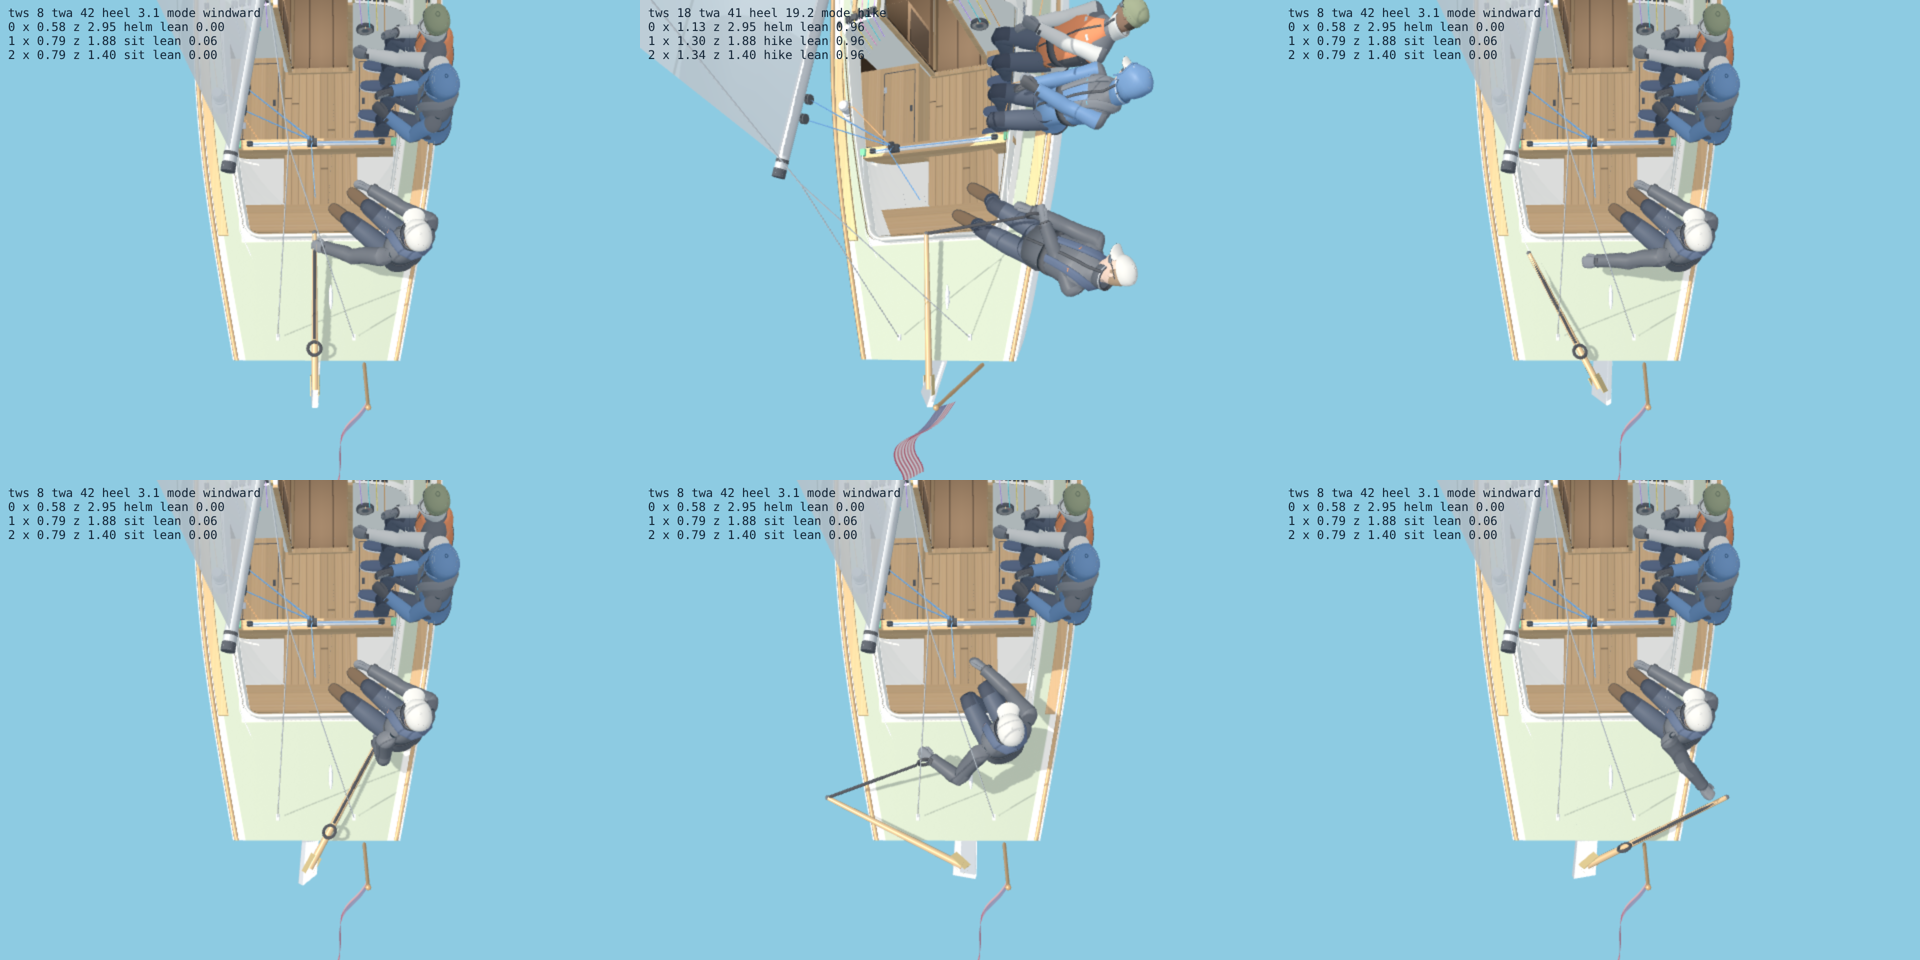
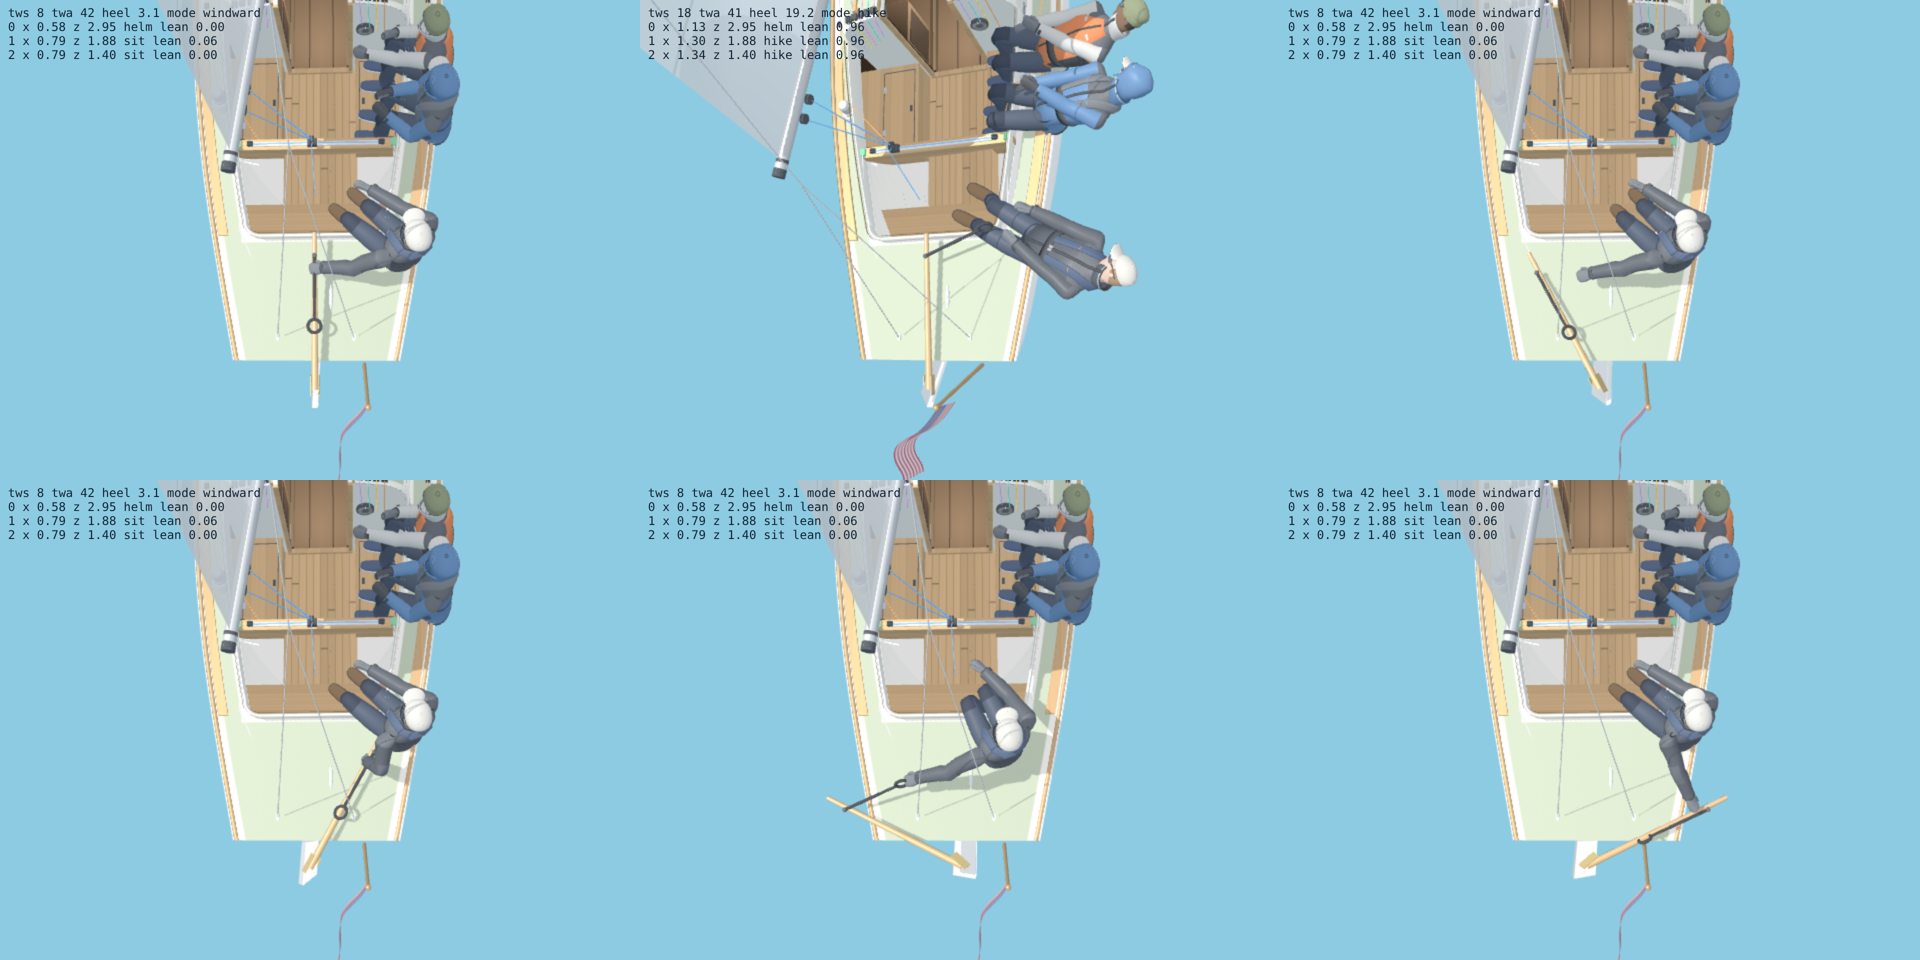
helm-travel: the extension's joint on the tiller's top 18 cm short of its end, and the extension 0.6 m (the owner)
- crew.ts: the universal joint is on the tiller's top, 18 cm (the owner: 6–8 in) short of its end; the helm's hold on the
  tiller is there. The extension is 0.6 m, about half the tiller (the owner: the long one was "visually intrusive and not
  true to life"). Both ESTIMATES. Stowed, it lies along the tiller's top from the joint.
- The deploy and stow thresholds are unchanged, re-checked with the shorter reach. The hand is on its grip or the tiller
  (0 mm off) sat, hiking (still out on the rail), at ±40° and at ±75°.
- docs/helm-travel-figures/straight: re-shot.

Claude-Session: https://claude.ai/code/session_012Uu5QiXrMLFqZYcrUp8g2b

diff --git a/src/render/crew.ts b/src/render/crew.ts
@@ -4,7 +4,7 @@ import { mergeGeometries } from 'three/examples/jsm/utils/BufferGeometryUtils.js
 import type { CrewState, Person, Pose as Job } from '../boat/crewPhys';
 import { DECK_ARM, slotOf } from '../boat/crewPhys';
 import { BONE, buildBody, type Body } from './crewBody';
-import { CABIN, COAMING_H, COAMING_T, COCKPIT, COCKPIT_FIT, COMPANIONWAY, canoe, FOOTREST, footrestEdge, JIB_WINCH_Z, L, cabinHalf, cabinTopAt, cockpitHalf, deckY, halfBeam, hullInnerHalf, thwartTop, uAtZ, benchOut, TILLER, tillerRestDir } from './hull';
+import { CABIN, COAMING_H, COAMING_T, COCKPIT, COCKPIT_FIT, COMPANIONWAY, canoe, FOOTREST, footrestEdge, JIB_WINCH_Z, L, cabinHalf, cabinTopAt, cockpitHalf, deckY, halfBeam, hullInnerHalf, thwartTop, uAtZ, benchOut, TILLER, tillerRestDir, RUDDER_RAKE } from './hull';
 
 /**
  * The people aboard, drawn as people: a jointed figure for each (pelvis, torso, head, arms with elbows and hands,
@@ -45,7 +45,7 @@ const figure = (p: Person, jacket: number, seed: number): Figure => ({ ...buildB
  * its joint (the origin) along +y, EXT_LEN to the grip's far side.
  */
 function extensionGeometry(): THREE.BufferGeometry {
-  const outer = new THREE.CylinderGeometry(0.013, 0.013, 0.5, 8).translate(0, 0.27, 0), inner = new THREE.CylinderGeometry(0.011, 0.011, 0.32, 8).translate(0, 0.66, 0);
+  const outer = new THREE.CylinderGeometry(0.013, 0.013, 0.32, 8).translate(0, 0.17, 0), inner = new THREE.CylinderGeometry(0.011, 0.011, 0.2, 8).translate(0, 0.4, 0);
   // the D: a loop of a 0.05 m radius, in the plane of the stick, its near side across the tube's end
   const loop = new THREE.TorusGeometry(0.05, 0.012, 6, 18).translate(0, EXT_LEN - 0.06, 0);
   const g = mergeGeometries([outer, inner, loop].map(q => q.toNonIndexed()));
@@ -106,9 +106,9 @@ let poseClock = 0;
  * the Bay's westerly sea about 0.006 rad/s at 6 kt, 0.025 at 14, 0.066 at 22 (measured, an AI boat racing on the default
  * course). Going forward in it, a crew goes lower and slower, both hands down. */
 let rough = 0;
-/** The tiller extension's length (m): ESTIMATE, a typical one for a boat her size (the owner: "most Folkboat skippers use
- * a tiller extension"). And the tiller's root this frame (syncCrew), for folding it back along the tiller. */
-const EXT_LEN = 0.95;
+/** The tiller extension's length (m): about half the tiller's (the owner: a long one is "visually intrusive and not true
+ * to life"), ESTIMATE. And the tiller's root this frame (syncCrew), for folding it back along the tiller. */
+const EXT_LEN = 0.6;
 let tRoot: THREE.Vector3 | undefined;
 /** Back along the top of the tiller from its end, toward the rudder head: the stowed extension's way. */
 const extAlong = (tip: THREE.Vector3) => tRoot ? tRoot.clone().sub(tip).normalize().add(V(0, 0.05, 0)).normalize() : V(0, 0.1, 1).normalize();
@@ -807,7 +807,7 @@ function helmPose(fig: Figure, x: number, z: number, lean: number, windward: num
   // arm from where they sit. They slide aft and in along the after deck toward it, as a helm does, as far as they need
   // and up to 0.35 m; their feet come aft with them)
   let fz = COCK1 - 0.24;
-  { const far = Math.hypot(tip.x - hip.x, tip.z - hip.z) - (0.95 + 0.5 * k);
+  { const far = Math.hypot(tip.x - hip.x, tip.z - hip.z) - (EXT_LEN + 0.5 * k);
     if (far > 0) {
       const dx = tip.x - hip.x, dz = tip.z - hip.z, n = Math.hypot(dx, dz) || 1, go = Math.min(0.35, far);
       const nz = Math.min(L / 2 - 0.5, hip.z + go * dz / n), nx = s * Math.max(0.25, s * (hip.x + go * dx / n)), nu = uAtZ(nz);
@@ -819,7 +819,7 @@ function helmPose(fig: Figure, x: number, z: number, lean: number, windward: num
     // (sitting out on the side deck, the knees over the coaming: the feet hang from them, on the footrest or just off it)
     if (hx > chz(fz) - 0.05) q.y = Math.max(q.y, deckY(uAtZ(fz), chz(fz)) + coamH(fz) + 0.04 - BONE.shin * k);
     return q; }
-  // the extension (EXT_LEN, on its universal joint at the tiller's end: the owner). Stowed (extOut 0), lying back along
+  // the extension (EXT_LEN, on its universal joint on the tiller's top, EXT_AFT short of its end: the owner). Stowed (extOut 0), lying back along
   // the top of the tiller, the hand on the tiller just short of its end (the owner's photo of hers); swung out, its grip in
   // the hand: out toward where a hand rests in front of them, or as far toward the tiller's end as they reach when it's
   // across the far quarter. Between, the hand carries the grip round on the joint
@@ -1172,6 +1172,9 @@ function toward(p: THREE.Vector3, q: THREE.Vector3, a: number, max: number): voi
 /** Where the tiller's end is in the boat's frame, from the rudder (boatMesh.ts: the group turned to steer). */
 // (the tiller's end and its pin, in the tiller's own frame: it's turned with the rudder and lifted on its pin, boatMesh.ts)
 const TILLER_TIP = tillerRestDir().multiplyScalar(TILLER.len), TILLER_PIN = V(0, 0, 0);
+/** The extension's universal joint: on the tiller's top, 18 cm short of its end (the owner: 6–8 in), ESTIMATE. */
+const EXT_AFT = 0.18, TILLER_JOINT = (() => { const d = tillerRestDir(), r = RUDDER_RAKE, up = V(0, Math.cos(r), -Math.sin(r)); // (the boat's up, in the rudder's frame)
+  up.addScaledVector(d, -up.dot(d)).normalize(); return d.clone().multiplyScalar(TILLER.len - EXT_AFT).addScaledVector(up, 0.03); })();
 const onTiller = (turn: THREE.Object3D, local: THREE.Vector3) => {
   const rud = turn.parent!, til = turn.children[1]; til.updateMatrix(); turn.updateMatrix(); rud.updateMatrix();
   return local.clone().applyMatrix4(til.matrix).applyMatrix4(turn.matrix).applyMatrix4(rud.matrix);
@@ -1180,6 +1183,8 @@ const onTiller = (turn: THREE.Object3D, local: THREE.Vector3) => {
 export const tillerRootAt = (turn: THREE.Object3D) => onTiller(turn, TILLER_PIN);
 /** Where the tiller's end is in the boat's frame, from the rudder (boatMesh.ts: the group turned to steer). */
 export const tillerTip = (turn: THREE.Object3D) => onTiller(turn, TILLER_TIP);
+/** Where the extension's joint is in the boat's frame: the helm's hold on the tiller, whichever way they steer. */
+export const tillerJointAt = (turn: THREE.Object3D) => onTiller(turn, TILLER_JOINT);
 
 /**
  * (Moving, and which way: from where the physics has them now against last frame, over the time the race moved

diff --git a/src/render/boatMesh.ts b/src/render/boatMesh.ts
@@ -11,7 +11,7 @@ import { sailPlan } from '../boat/physics';
 import { guideTune, rigDrawn } from '../boat/rigTune';
 import { lineColor, type BoatSpec, type LineColorKey } from '../boat/spec';
 import { P3 } from './coords';
-import { buildCrew, dockhand, syncCrew, tillerRootAt, tillerTip, type Crew } from './crew';
+import { buildCrew, dockhand, syncCrew, tillerJointAt, tillerRootAt, type Crew } from './crew';
 import { burgeeCanvas, officerRule } from './burgees';
 import { flagArtCanvas, needsCourtesy } from './flagArt';
 import { DEFAULT_CREW } from '../boat/crewPhys';
@@ -1558,7 +1558,7 @@ export function syncBoatMesh(m: BoatMesh, b: Boat, t: number, wave?: { heave: nu
   if (live) m.liveT = t;
   const pd = b.paddle, who = pd ? paddler(b) : 0;
   if (live) m.crew.tillerRoot = tillerRootAt(m.rudder);
-  if (live) syncCrew(m.crew, b.rel >= 0 ? 1 : -1, b.crew, ldt, m.hideHelm, tillerTip(m.rudder), b.heel, b.tacking, pitch, pd ? { side: pd.side, back: !!pd.back, fetch: PADDLE.fetchS / workPace(b, who), who, key: pd.t0 } : null);
+  if (live) syncCrew(m.crew, b.rel >= 0 ? 1 : -1, b.crew, ldt, m.hideHelm, tillerJointAt(m.rudder), b.heel, b.tacking, pitch, pd ? { side: pd.side, back: !!pd.back, fetch: PADDLE.fetchS / workPace(b, who), who, key: pd.t0 } : null);
   if (live && b.pushing) dockhand(m.crew, b.pushing, 0.45, deckY(uAtZ(-0.55), halfBeam(uAtZ(-0.55)) - 0.15), t); // (the docks' top: render/marina.ts)
   // positive rotation swings the boom to starboard (+x); b.boom is negative when the wind is from starboard, so it goes to port, to leeward
   m.boomPivot.rotation.y = b.boom * D2R;
